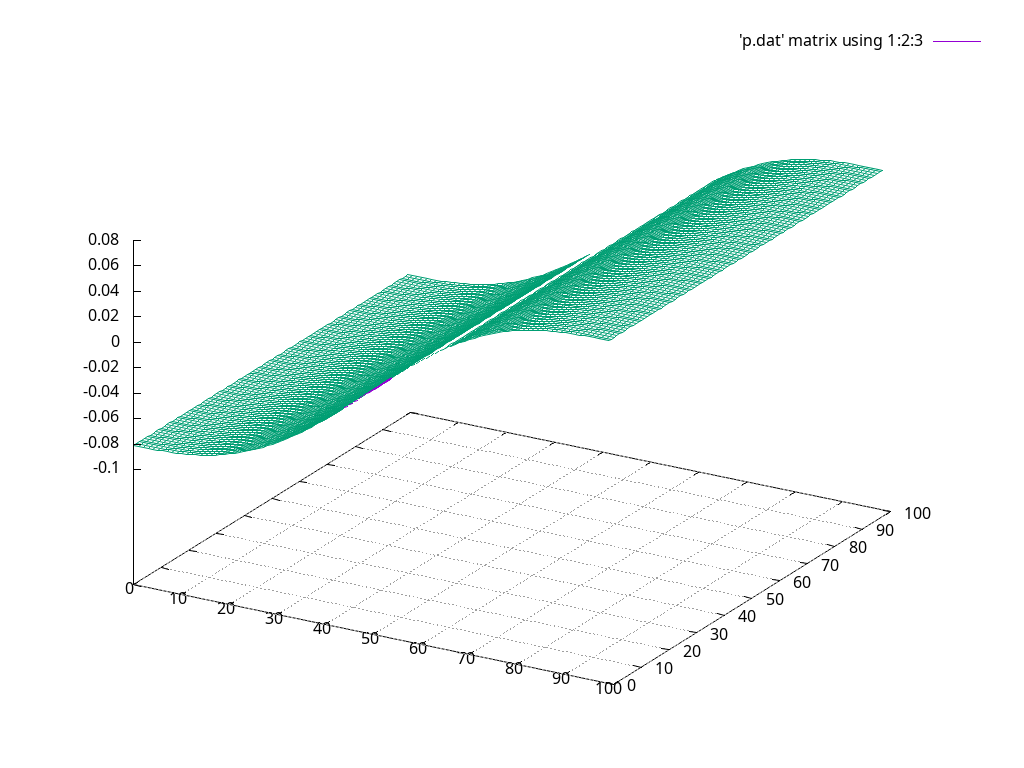
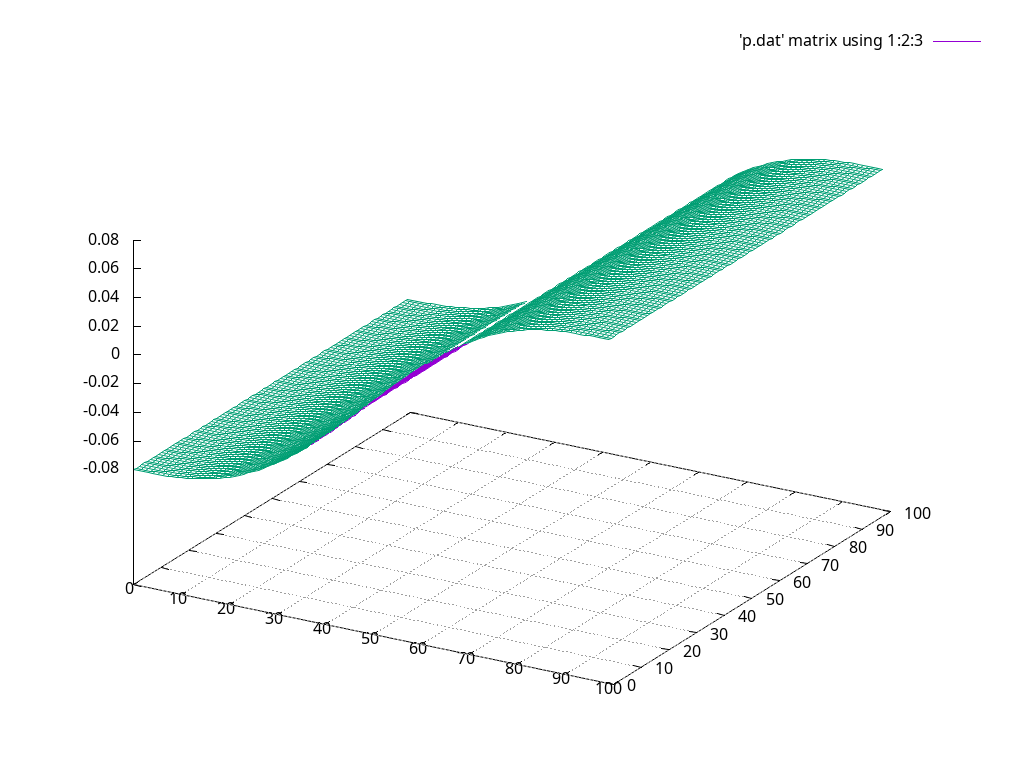
implemented RED_BLACK_SOR

Changed region(s): [[0.0625, 0.1875, 0.875, 0.625]]

diff --git a/assignment04/code/src/solver.c b/assignment04/code/src/solver.c
@@ -74,19 +74,6 @@ void getResult(Solver *solver) {
       cursor += rcvCounts[i];
     }
   }
-  // if (solver->rank == 1 || solver->rank == 2) {
-  //   int imax = solver->imax + 2;
-  //
-  //   p = solver->p;
-  //   for (int j = 1; j < solver->jmaxLocal + 1; j++) {
-  //     printf("P of rank %d at row %d ", solver->rank, j);
-  //     for (int i = 1; i < solver->imax + 1; i++) {
-  //       printf("%f ", P(i, j));
-  //     }
-  //     printf("\n");
-  //   }
-  // }
-
   int cnt = solver->imax * solver->jmaxLocal;
   double *sendbuffer = (double *)malloc(cnt * sizeof(double));
   int idx = 0;
@@ -155,6 +142,80 @@ void initSolver(Solver *solver, Parameter *params, int problem) {
         RHS(i, j) = 0.0;
       }
     }
+  }
+}
+
+void solve_red_black(Solver *solver) {
+  int imax = solver->imax;
+  int jmax = solver->jmax;
+  int jmaxLocal = solver->jmaxLocal;
+  double eps = solver->eps;
+  int itermax = solver->itermax;
+  double dx2 = solver->dx * solver->dx;
+  double dy2 = solver->dy * solver->dy;
+  double idx2 = 1.0 / dx2;
+  double idy2 = 1.0 / dy2;
+  double factor = solver->omega * 0.5 * (dx2 * dy2) / (dx2 + dy2);
+  double *p = solver->p;
+  double *rhs = solver->rhs;
+  double epssq = eps * eps;
+  int it = 0;
+  double res = eps + 1.0;
+
+  while ((res >= epssq) && (it < itermax)) {
+    res = 0.0;
+    exchange(solver);
+
+    // adapt for mpi
+    // RED SWEEP
+    for (int j = 1; j < jmaxLocal + 1; j++) {
+      int start_i = (j % 2 != 0) ? 1 : 2;
+      for (int i = start_i; i < imax + 1; i += 2) {
+        double r =
+            RHS(i, j) - ((P(i - 1, j) - 2.0 * P(i, j) + P(i + 1, j)) * idx2 +
+                         (P(i, j - 1) - 2.0 * P(i, j) + P(i, j + 1)) * idy2);
+
+        P(i, j) -= (factor * r);
+        res += (r * r);
+      }
+    }
+
+    // BLACK SWEEP
+    for (int j = 1; j < jmaxLocal + 1; j++) {
+      int start_i = (j % 2 != 0) ? 2 : 1;
+      for (int i = start_i; i < imax + 1; i += 2) {
+        double r =
+            RHS(i, j) - ((P(i - 1, j) - 2.0 * P(i, j) + P(i + 1, j)) * idx2 +
+                         (P(i, j - 1) - 2.0 * P(i, j) + P(i, j + 1)) * idy2);
+
+        P(i, j) -= (factor * r);
+        res += (r * r);
+      }
+    }
+
+    for (int i = 1; i < imax + 1; i++) {
+      P(i, 0) = P(i, 1);
+      P(i, jmaxLocal + 1) = P(i, jmaxLocal);
+    }
+
+    for (int j = 1; j < jmaxLocal + 1; j++) {
+      P(0, j) = P(1, j);
+      P(imax + 1, j) = P(imax, j);
+    }
+
+    MPI_Allreduce(MPI_IN_PLACE, &res, 1, MPI_DOUBLE, MPI_SUM, MPI_COMM_WORLD);
+    res = res / (double)(imax * jmax);
+#ifdef DEBUG
+    if (solver->rank == 0) {
+      printf("%d Residuum: %e\n", it, res);
+    }
+#endif
+    it++;
+  }
+
+  if (solver->rank == 0) {
+    printf("Solver took %d iterations to reach %f using omega=%f\n", it,
+           sqrt(res), solver->omega);
   }
 }
 
@@ -230,7 +291,7 @@ void writeResult(Solver *solver, double *p_global, char *filename) {
 
   for (int j = 0; j < jmax; j++) {
     for (int i = 0; i < imax; i++) {
-			fprintf(fp, "%f ", p_global[j * imax + i]);
+      fprintf(fp, "%f ", p_global[j * imax + i]);
     }
     fprintf(fp, "\n");
   }

diff --git a/assignment04/code/src/main.c b/assignment04/code/src/main.c
@@ -16,6 +16,8 @@
 #include "solver.h"
 #include "timing.h"
 
+#define RED_BLACK_SOR
+
 int main(int argc, char **argv) {
   MPI_Init(&argc, &argv);
   double startTime, endTime;
@@ -35,7 +37,11 @@ int main(int argc, char **argv) {
   }
 
   startTime = getTimeStamp();
+#ifdef RED_BLACK_SOR
+  solve_red_black(&solver);
+#else 
   solve(&solver);
+#endif /* ifndef RED_BLACK_SOR */
   endTime = getTimeStamp();
   // writeResult(&solver, "p.dat");
   getResult(&solver);

diff --git a/assignment04/code/src/solver.h b/assignment04/code/src/solver.h
@@ -25,4 +25,5 @@ extern void initSolver(Solver *, Parameter *, int problem);
 extern void getResult(Solver *);
 extern void writeResult(Solver *, double *, char *);
 extern void solve(Solver *);
+extern void solve_red_black(Solver *);
 #endif
